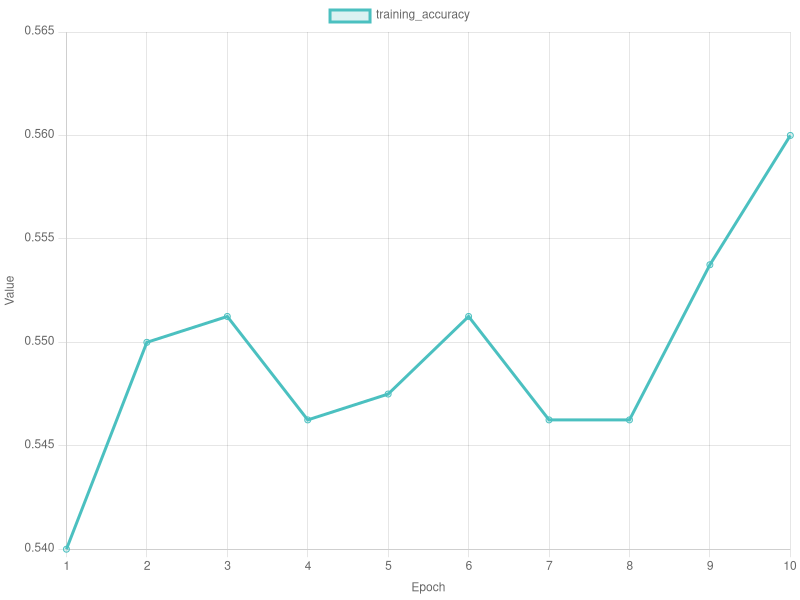
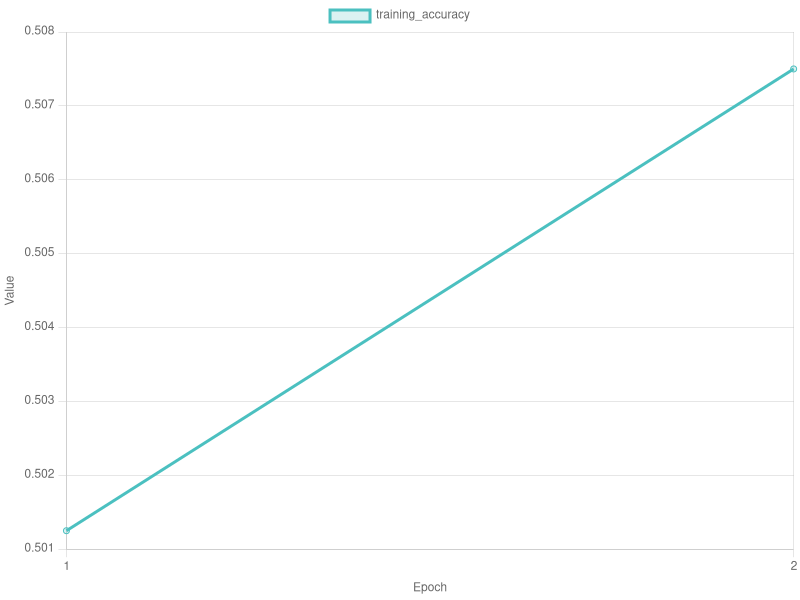
Added: plot graphs locally

diff --git a/website/utils/charts.js b/website/utils/charts.js
@@ -1,0 +1,131 @@
+const fs = require('fs');
+const { createCanvas } = require('canvas');
+const Chart = require('chart.js/auto');
+const path = require('path');
+const ModelData = require('../models/ModelDataModel.js');
+const mongoose = require('mongoose');
+// const { ObjectId } = require('mongodb');
+var ObjectID = require('mongodb').ObjectID;
+
+const createModelData = async (req, res) => {
+  const modelData = new ModelData(req.body);
+
+  try {
+      await modelData.save();
+      res.status(201).send(model);
+  } catch (error) {
+      res.status(500);
+  }
+}
+
+const uploadModelFiles = async (req, res) => {
+  try {
+      const modelData = await ModelData.find({ modelID: req.body.modelID });
+      for (let key in req.body.params.automatic_data) {
+        if (req.body.params.automatic_data.hasOwnProperty(key)) {
+          await plotModelData(req.body.params.automatic_data[key], 'line', key);
+        }
+      }
+      modelData.model_arch = req.file.path
+      modelData.params.automatic_data = req.body.params.automatic_data
+      modelData.params.manual_data = req.body.params.manual_data
+      await modelData.save()
+      console.log("Data received from 7ggoo")
+      res.status(201).send('File uploaded successfully!');
+      return;
+    } catch (error) {
+        res.status(500).send(error);
+    }
+  }
+
+  const plotModelData = async (data, type = 'line', title = 'Chart') => {
+    try {    
+      const width = 800;
+      const height = 600;
+      const canvas = createCanvas(width, height);
+      const ctx = canvas.getContext('2d');
+    
+      // Create the chart
+      new Chart(ctx, {
+        type: type, // Chart type: 'line', 'bar', etc.
+        data: {
+          labels: data.map((_, i) => i + 1), // X-axis labels (e.g., [1, 2, 3, ...])
+          datasets: [{
+            label: title, // Chart title
+            data: data, // Data points
+            fill: false, // No fill under the line
+            borderColor: 'rgba(75, 192, 192, 1)', // Line color
+            backgroundColor: 'rgba(75, 192, 192, 0.2)' // Point color
+          }]
+        },
+        options: {
+          responsive: false,
+          title: {
+            display: true,
+            text: title
+          },
+          scales: {
+            x: {
+              display: true,
+              title: {
+                display: true,
+                text: 'Epoch'
+              }
+            },
+            y: {
+              display: true,
+              title: {
+                display: true,
+                text: 'Value'
+              }
+            }
+          }
+        }
+      });
+    
+      // Ensure the graph directory exists
+      const graphDir = path.join(__dirname, '../graph');
+      if (!fs.existsSync(graphDir)) {
+        fs.mkdirSync(graphDir);
+      }
+    
+      const graphPath = path.join(graphDir, `${title}.png`);
+      fs.writeFileSync(graphPath, canvas.toBuffer());
+  
+      console.log(`Chart has been saved as ${graphPath}`);
+    } catch (error) {
+      console.error("Error creating the chart:", error);
+    }
+  };
+
+// const downloadModelFiles = async (req, res) => {
+//   try {
+//     const { fileId } = req.params;
+
+//     // Check if file exists
+//     console.log(bucket)
+//     const file = await bucket.find({ _id: new mongoose.Types.ObjectId(fileId) }).toArray();
+//     if (file.length === 0) {
+//     return res.status(404).json({ error: { text: "File not found" } });
+//     }
+
+//     // set the headers
+//     res.set("Content-Type", file[0].contentType);
+//     res.set("Content-Disposition", `attachment; filename=${file[0].filename}`);
+
+//     // create a stream to read from the bucket
+//     const downloadStream = bucket.openDownloadStream(new mongoose.Types.ObjectId(fileId));
+
+//     // pipe the stream to the response
+//     downloadStream.pipe(res);
+// } catch (error) {
+//     console.log(error);
+//     res.status(400).json({error: { text: `Unable to download file`, error }});
+// }
+//   };
+
+module.exports = {
+  createModelData,
+  uploadModelFiles,
+  // downloadModelFiles
+};

diff --git a/website/controllers/RunController.js b/website/controllers/RunController.js
@@ -1,6 +1,10 @@
 const Model = require('../models/ModelModel');
 const Run = require('../models/RunModel.js');
 const RunData = require('../models/RunDataModel.js');
+const fs = require('fs');
+const { createCanvas } = require('canvas');
+const Chart = require('chart.js/auto');
+const path = require('path');
 
 const init_run = async (req, res) => {
   let model, run, runData;
@@ -47,7 +51,13 @@ const init_run = async (req, res) => {
 
 
     if (req.body.params) {
-      runData.params = req.body.params
+      runData.params = req.body.params;
+      // loop over automatic_data and plot the data
+      for (let key in req.body.params.automatic_data) {
+        if (req.body.params.automatic_data.hasOwnProperty(key)) {
+          await plotModelData(req.body.params.automatic_data[key], 'line', key);
+        }
+      }
     }
 
     if (run) {
@@ -61,6 +71,66 @@ const init_run = async (req, res) => {
     return res.status(500).send({ error: "Couldn't initialize run. Please revise the provided data." });
   }
 }
+
+const plotModelData = async (data, type = 'line', title = 'Chart') => {
+  try {    
+    const width = 800;
+    const height = 600;
+    const canvas = createCanvas(width, height);
+    const ctx = canvas.getContext('2d');
+  
+    // Create the chart
+    new Chart(ctx, {
+      type: type, // Chart type: 'line', 'bar', etc.
+      data: {
+        labels: data.map((_, i) => i + 1), // X-axis labels (e.g., [1, 2, 3, ...])
+        datasets: [{
+          label: title, // Chart title
+          data: data, // Data points
+          fill: false, // No fill under the line
+          borderColor: 'rgba(75, 192, 192, 1)', // Line color
+          backgroundColor: 'rgba(75, 192, 192, 0.2)' // Point color
+        }]
+      },
+      options: {
+        responsive: false,
+        title: {
+          display: true,
+          text: title
+        },
+        scales: {
+          x: {
+            display: true,
+            title: {
+              display: true,
+              text: 'Epoch'
+            }
+          },
+          y: {
+            display: true,
+            title: {
+              display: true,
+              text: 'Value'
+            }
+          }
+        }
+      }
+    });
+  
+    // Ensure the graph directory exists
+    const graphDir = path.join(__dirname, '../graph');
+    if (!fs.existsSync(graphDir)) {
+      fs.mkdirSync(graphDir);
+    }
+  
+    const graphPath = path.join(graphDir, `${title}.png`);
+    fs.writeFileSync(graphPath, canvas.toBuffer());
+
+    console.log(`Chart has been saved as ${graphPath}`);
+  } catch (error) {
+    console.error("Error creating the chart:", error);
+  }
+};
 
 
 // const uploadRunFiles = async (req, res) => {

diff --git a/website/utils/req.js b/website/utils/req.js
@@ -1,0 +1,34 @@
+body: {
+  "params": {
+          "automatic_data": {
+              "training_loss": [
+                  0.7013490796089172,
+                  0.6962673068046578
+              ],
+              "training_accuracy": [
+                  0.5012500286102295,
+                  0.5074999928474426
+              ],
+              "validation_loss": [
+                  0.6998642683029175,
+                  0.6993296742439273
+              ],
+              "validation_accuracy": [
+                  0.45500001311302185,
+                  0.43500000238418583
+              ]
+          },
+          "manual_data": {"test": "teeessstt"}
+  },
+  // contains run information from the package's init_run
+  "run_config": {
+          "run_name": "example_run", // required
+          "model_name": "example_model" // not required
+  },
+  // or will be model_config in case of model_init
+  "model_config": {
+          "model_name": "example_model" // required
+          "description": "example_desc"
+          "run_name": "example_run", // not required
+  }
+}

diff --git a/website/app.js b/website/app.js
@@ -4,7 +4,7 @@ require('./models/database')
 const express = require('express');
 const fs = require('fs');
 const bodyParser = require('body-parser');
-const trainingDataRouter = require('./routes/trainingData');
+// const trainingDataRouter = require('./routes/trainingData');
 const PackageRouter = require('./routes/PackageRouter');
 const UIRouter = require('./routes/UIRouter');
 const UserRouter = require('./routes/UserRouter');

diff --git a/website/controllers/ModelController.js b/website/controllers/ModelController.js
@@ -1,5 +1,6 @@
 const Model = require('../models/ModelModel');
-const ModelData = require('../models/ModelDataModel')
+const ModelData = require('../models/ModelDataModel');
+
 
 const init_model = async (req, res) => {
   let model, modelData;
